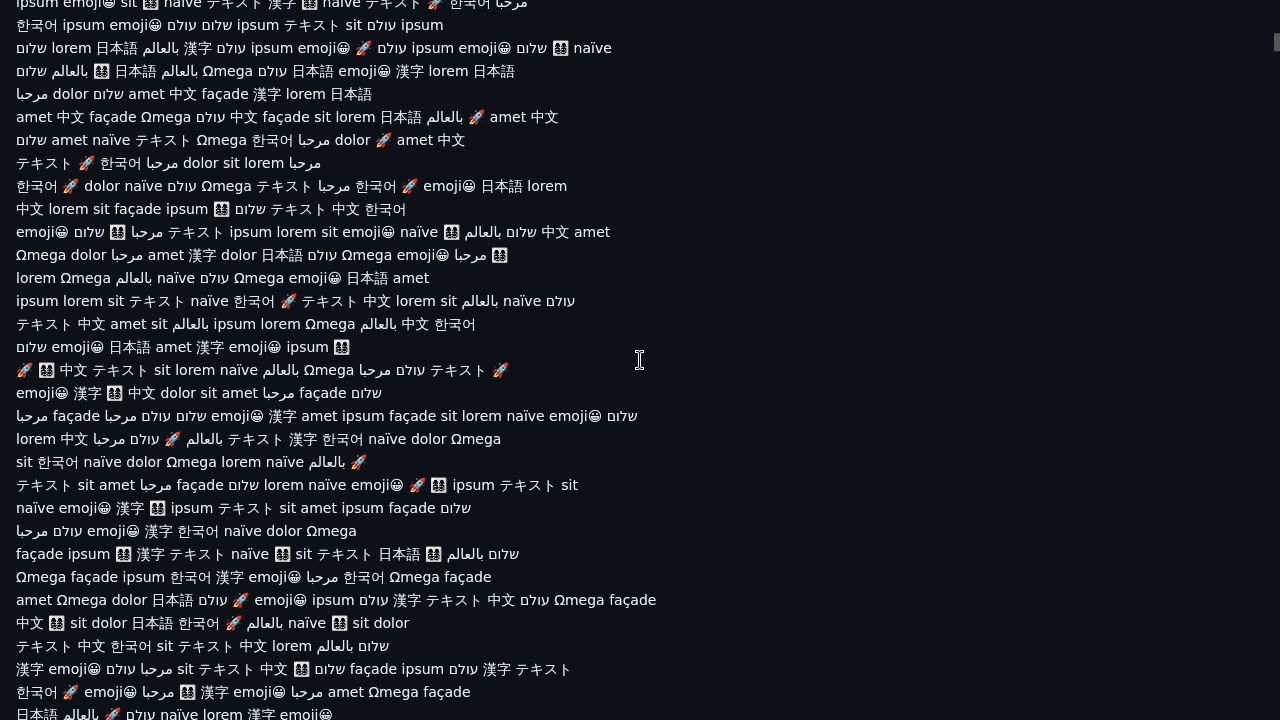
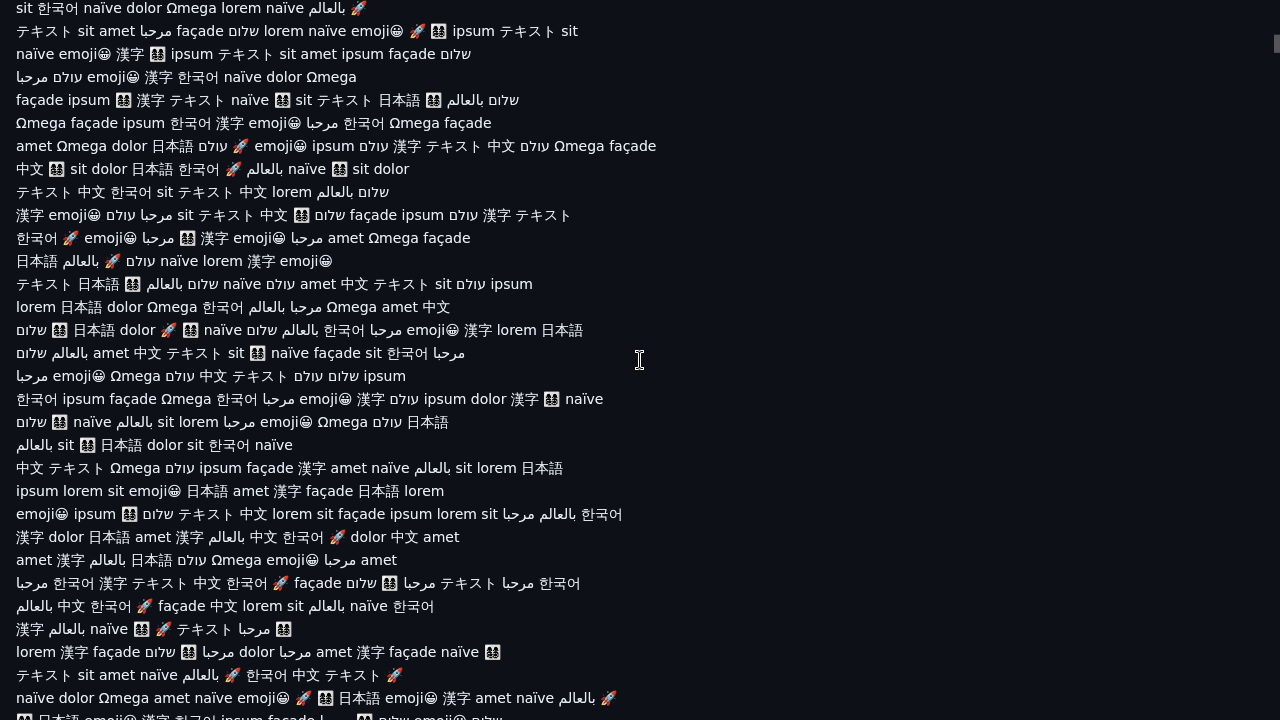
WIP passe 2 : point d'étape (agents de revue en cours, non final)
Claude-Session: https://claude.ai/code/session_01HkHNQj7J4SQqsr89FX7Vve

Changed region(s): [[0.0, 0.0, 0.5, 1.0]]

diff --git a/stacks/flutter/app/lib/scenarios.dart b/stacks/flutter/app/lib/scenarios.dart
@@ -312,6 +312,10 @@ class _TextState extends State<TextScenario> with SingleTickerProviderStateMixin
       ops['final_offset'] = ctrl.hasClients ? ctrl.offset : 0.0;
       ops['lines'] = lines.length;
       ops['select_all_done'] = selected;
+      // checked on the verify_gui capture: CJK, Hangul, Hebrew/Arabic (RTL) and accents render;
+      // emoji come out as monochrome DejaVu Sans glyphs (fontconfig fallback order) and the
+      // ZWJ family sequence is not composed into one glyph.
+      ops['not_rendered'] = ['colour emoji (monochrome glyphs)', 'emoji ZWJ sequence composition'];
       ops['checksum'] = hexOf(fnv(lines.length ^ (ctrl.hasClients ? ctrl.offset.round() : 0)));
     });
     b.finishExtra = (inW) {

diff --git a/stacks/egui/src/main.rs b/stacks/egui/src/main.rs
@@ -146,6 +146,7 @@ struct App {
     gpu_info: String,
     square_white: bool,
     key_events: u64,
+    emoji_font: String,
 }
 
 fn rss_kb() -> u64 {
@@ -165,8 +166,12 @@ impl App {
             gpu_info = unsafe { format!("GL_RENDERER={} GL_VERSION={}", gl.get_parameter_string(eframe::glow::RENDERER), gl.get_parameter_string(eframe::glow::VERSION)) };
         }
         let (mut text, mut images, mut canvas, mut nav) = (None, None, None, None);
+        let mut emoji_font = String::new();
         match a.scenario.as_str() {
-            "text" => text = Some(scen::TextView::load(&format!("{}/text1mb.txt", a.assets))),
+            "text" => {
+                if std::env::var("EGUI_BENCH_NO_COLOR_EMOJI").is_err() { emoji_font = scen::add_color_emoji(&cc.egui_ctx); }
+                text = Some(scen::TextView::load(&format!("{}/text1mb.txt", a.assets)));
+            }
             "images" => images = Some(scen::Images::new(&a.assets)),
             "canvas" => canvas = Some(Canvas::new(a.shapes, Vec2::new(1000.0, 600.0), true, Some(Vec2::new(1000.0, 100.0)))),
             "core" => canvas = Some(Canvas::new(1000, Vec2::new(1000.0, 600.0), false, None)),
@@ -177,7 +182,7 @@ impl App {
         App {
             a, rend, pacing60, m0: None, hook_no: 0, last_counted: None, changed: false, frame_ms: Vec::new(),
             cpu_usage_sum: 0.0, cpu_usage_n: 0, unchanged: 0, t: 0.0, ttfd_ms: None, model: ListModel::new(), stream: None, canvas, text, images, nav, core: None, burner: None,
-            last_off: -1.0, final_off: 0.0, samples: Vec::new(), next_sample: 10.0, base_applied: 0, shown_imgs: 0, gpu_info, square_white: false, key_events: 0,
+            last_off: -1.0, final_off: 0.0, samples: Vec::new(), next_sample: 10.0, base_applied: 0, shown_imgs: 0, gpu_info, square_white: false, key_events: 0, emoji_font,
         }
     }
 
@@ -237,7 +242,7 @@ impl App {
         }
         if let Some(t) = &self.text {
             ops.push(format!("\"time_to_first_display_ms\":{:.1},\"layout_ms\":{:.3},\"file_read_ms\":{:.3},\"galley_rows\":{},\"select_all\":{},\"selected_chars\":{}", self.ttfd_ms.unwrap_or(0.0), t.layout_ms.unwrap_or(0.0), t.load_ms, t.galley_rows, t.select_all_done, t.selected_chars));
-            extra.push_str(" text: TextEdit::multiline(&mut &str) (lecture seule, sélectionnable) dans ScrollArea ; layout_ms = durée du premier TextEdit::show (mise en page complète du Mo en un Galley, retour à la ligne à la largeur) ; time_to_first_display_ms = début de main -> retour de la présentation de la 1re frame de texte ; select-all à t=5 s = request_focus + TextEditState::cursor.set_char_range(CCursorRange::select_all) ; polices de repli système via feature eframe `system_fonts` (egui_system_font_provider/fontique : Noto Sans CJK, Noto Color Emoji, DejaVu…).");
+            extra.push_str(&format!(" text: TextEdit::multiline(&mut &str) (lecture seule, sélectionnable) dans ScrollArea ; layout_ms = durée du premier TextEdit::show (mise en page complète du Mo en un Galley, retour à la ligne à la largeur) ; time_to_first_display_ms = début de main -> retour de la présentation de la 1re frame de texte ; select-all à t=5 s = request_focus + TextEditState::cursor.set_char_range(CCursorRange::select_all) ; polices de repli système via feature eframe `system_fonts` (egui_system_font_provider/fontique : Noto Sans CJK, DejaVu…) + Noto Color Emoji ajoutée explicitement : {}.", self.emoji_font));
             checksum = format!("{:08x}", data::fnv(t.text.len() as u32));
         }
         if let Some(im) = &self.images {

diff --git a/stacks/nsh/app/src/main.rs b/stacks/nsh/app/src/main.rs
@@ -75,25 +75,20 @@ fn marker(m: &str) {
     let _ = out.flush();
 }
 
-/// BENCH_PACING (spec v2.1): "60" (default) = GTK's native GdkFrameClock cadence;
-/// "uncapped" = GDK_DEBUG=no-vsync, the documented GTK option "Repaint instantly"
-/// (https://docs.gtk.org/gtk4/running.html, GDK_DEBUG), set before GTK starts.
+/// BENCH_PACING (spec v2.1): "60" (default) = GTK's native GdkFrameClock cadence.
+/// "uncapped" cannot be honoured: neither NSH 0.2.0 nor GTK 4 has an application API
+/// to unpace the frame clock; GTK's debugging option GDK_DEBUG=no-vsync
+/// (https://docs.gtk.org/gtk4/running.html) repaints instantly but, measured, gives fewer
+/// changed frames (the busy main loop starves NSH's batch hand-off), so it stays a
+/// diagnostic the user may set by hand, and the mode reported is "60-only".
 fn pacing() -> &'static str {
     match std::env::var("BENCH_PACING").as_deref() {
-        Ok("uncapped") => "uncapped",
+        Ok("uncapped") => "60-only",
         _ => "60",
     }
 }
 
 fn main() -> glib::ExitCode {
-    if pacing() == "uncapped" {
-        let cur = std::env::var("GDK_DEBUG").unwrap_or_default();
-        if !cur.split([',', ':', ' ']).any(|f| f == "no-vsync") {
-            let v = if cur.is_empty() { "no-vsync".to_owned() } else { format!("{cur},no-vsync") };
-            // SAFETY: first statement of main, before any thread exists.
-            unsafe { std::env::set_var("GDK_DEBUG", v) };
-        }
-    }
     let cfg = parse_args();
     let _ = T0.get_or_init(std::time::Instant::now);
     let _ = CFG.set(cfg);
@@ -294,8 +289,8 @@ fn write_json() {
             "NSH 0.2.0 GTK4 backend, Rust-only app (no QuickJS). Frame end = GdkFrameClock after-paint on the GTK main thread \
              (last public post-render signal: GSK render done, X11 frame submitted; presentation not reported without a compositor). \
              Only frames whose snapshot ran again (a widget was invalidated: mounted batch, scroll, native animation) are counted; paints that redrew nothing go to ops.paints_without_change. \
-             Pacing {}: 60 = GdkFrameClock's own 60 Hz timer (no widget/frame-clock API changes it); uncapped = GDK_DEBUG=no-vsync \
-             (documented GTK env option, GDK_DEBUG={}). \
+             Pacing {}: GdkFrameClock's own 60 Hz timer; no public NSH/GTK app API unpaces it (BENCH_PACING=uncapped -> 60-only; \
+             GTK's debug option GDK_DEBUG=no-vsync only adds empty repaints and starves NSH's batches; GDK_DEBUG={}). \
              Rust components run on the NSH engine thread, GTK on the main thread, one batch hop per commit. Warm-up 2 s excluded. \
              GSK_RENDERER={}. {}",
             pacing(),

diff --git a/stacks/egui/src/scen.rs b/stacks/egui/src/scen.rs
@@ -97,6 +97,23 @@ impl TextView {
     }
 }
 
+/// Police emoji couleur : le repli système d'eframe 0.37 (`system_fonts`, fontique) choisit DejaVu Sans
+/// (glyphes monochromes) pour les emoji ; on ajoute donc explicitement « Noto Color Emoji » localisée par
+/// fontconfig (`fc-match`, pas de chemin codé en dur) en fin de famille Proportional/Monospace.
+pub fn add_color_emoji(ctx: &egui::Context) -> String {
+    let out = std::process::Command::new("fc-match").args(["-f", "%{file}", "Noto Color Emoji"]).output();
+    let Ok(out) = out else { return "fc-match indisponible".into() };
+    let path = String::from_utf8_lossy(&out.stdout).to_string();
+    let Ok(bytes) = std::fs::read(&path) else { return format!("lecture impossible: {path}") };
+    let mut fonts = egui::FontDefinitions::default();
+    fonts.font_data.insert("color-emoji".into(), Arc::new(egui::FontData::from_owned(bytes)));
+    for fam in [egui::FontFamily::Proportional, egui::FontFamily::Monospace] {
+        fonts.families.get_mut(&fam).unwrap().push("color-emoji".into());
+    }
+    ctx.set_fonts(fonts);
+    path
+}
+
 /// aller-retour 0..max
 pub fn ping(x: f64, max: f64) -> f64 {
     if max <= 0.0 { return 0.0; }
